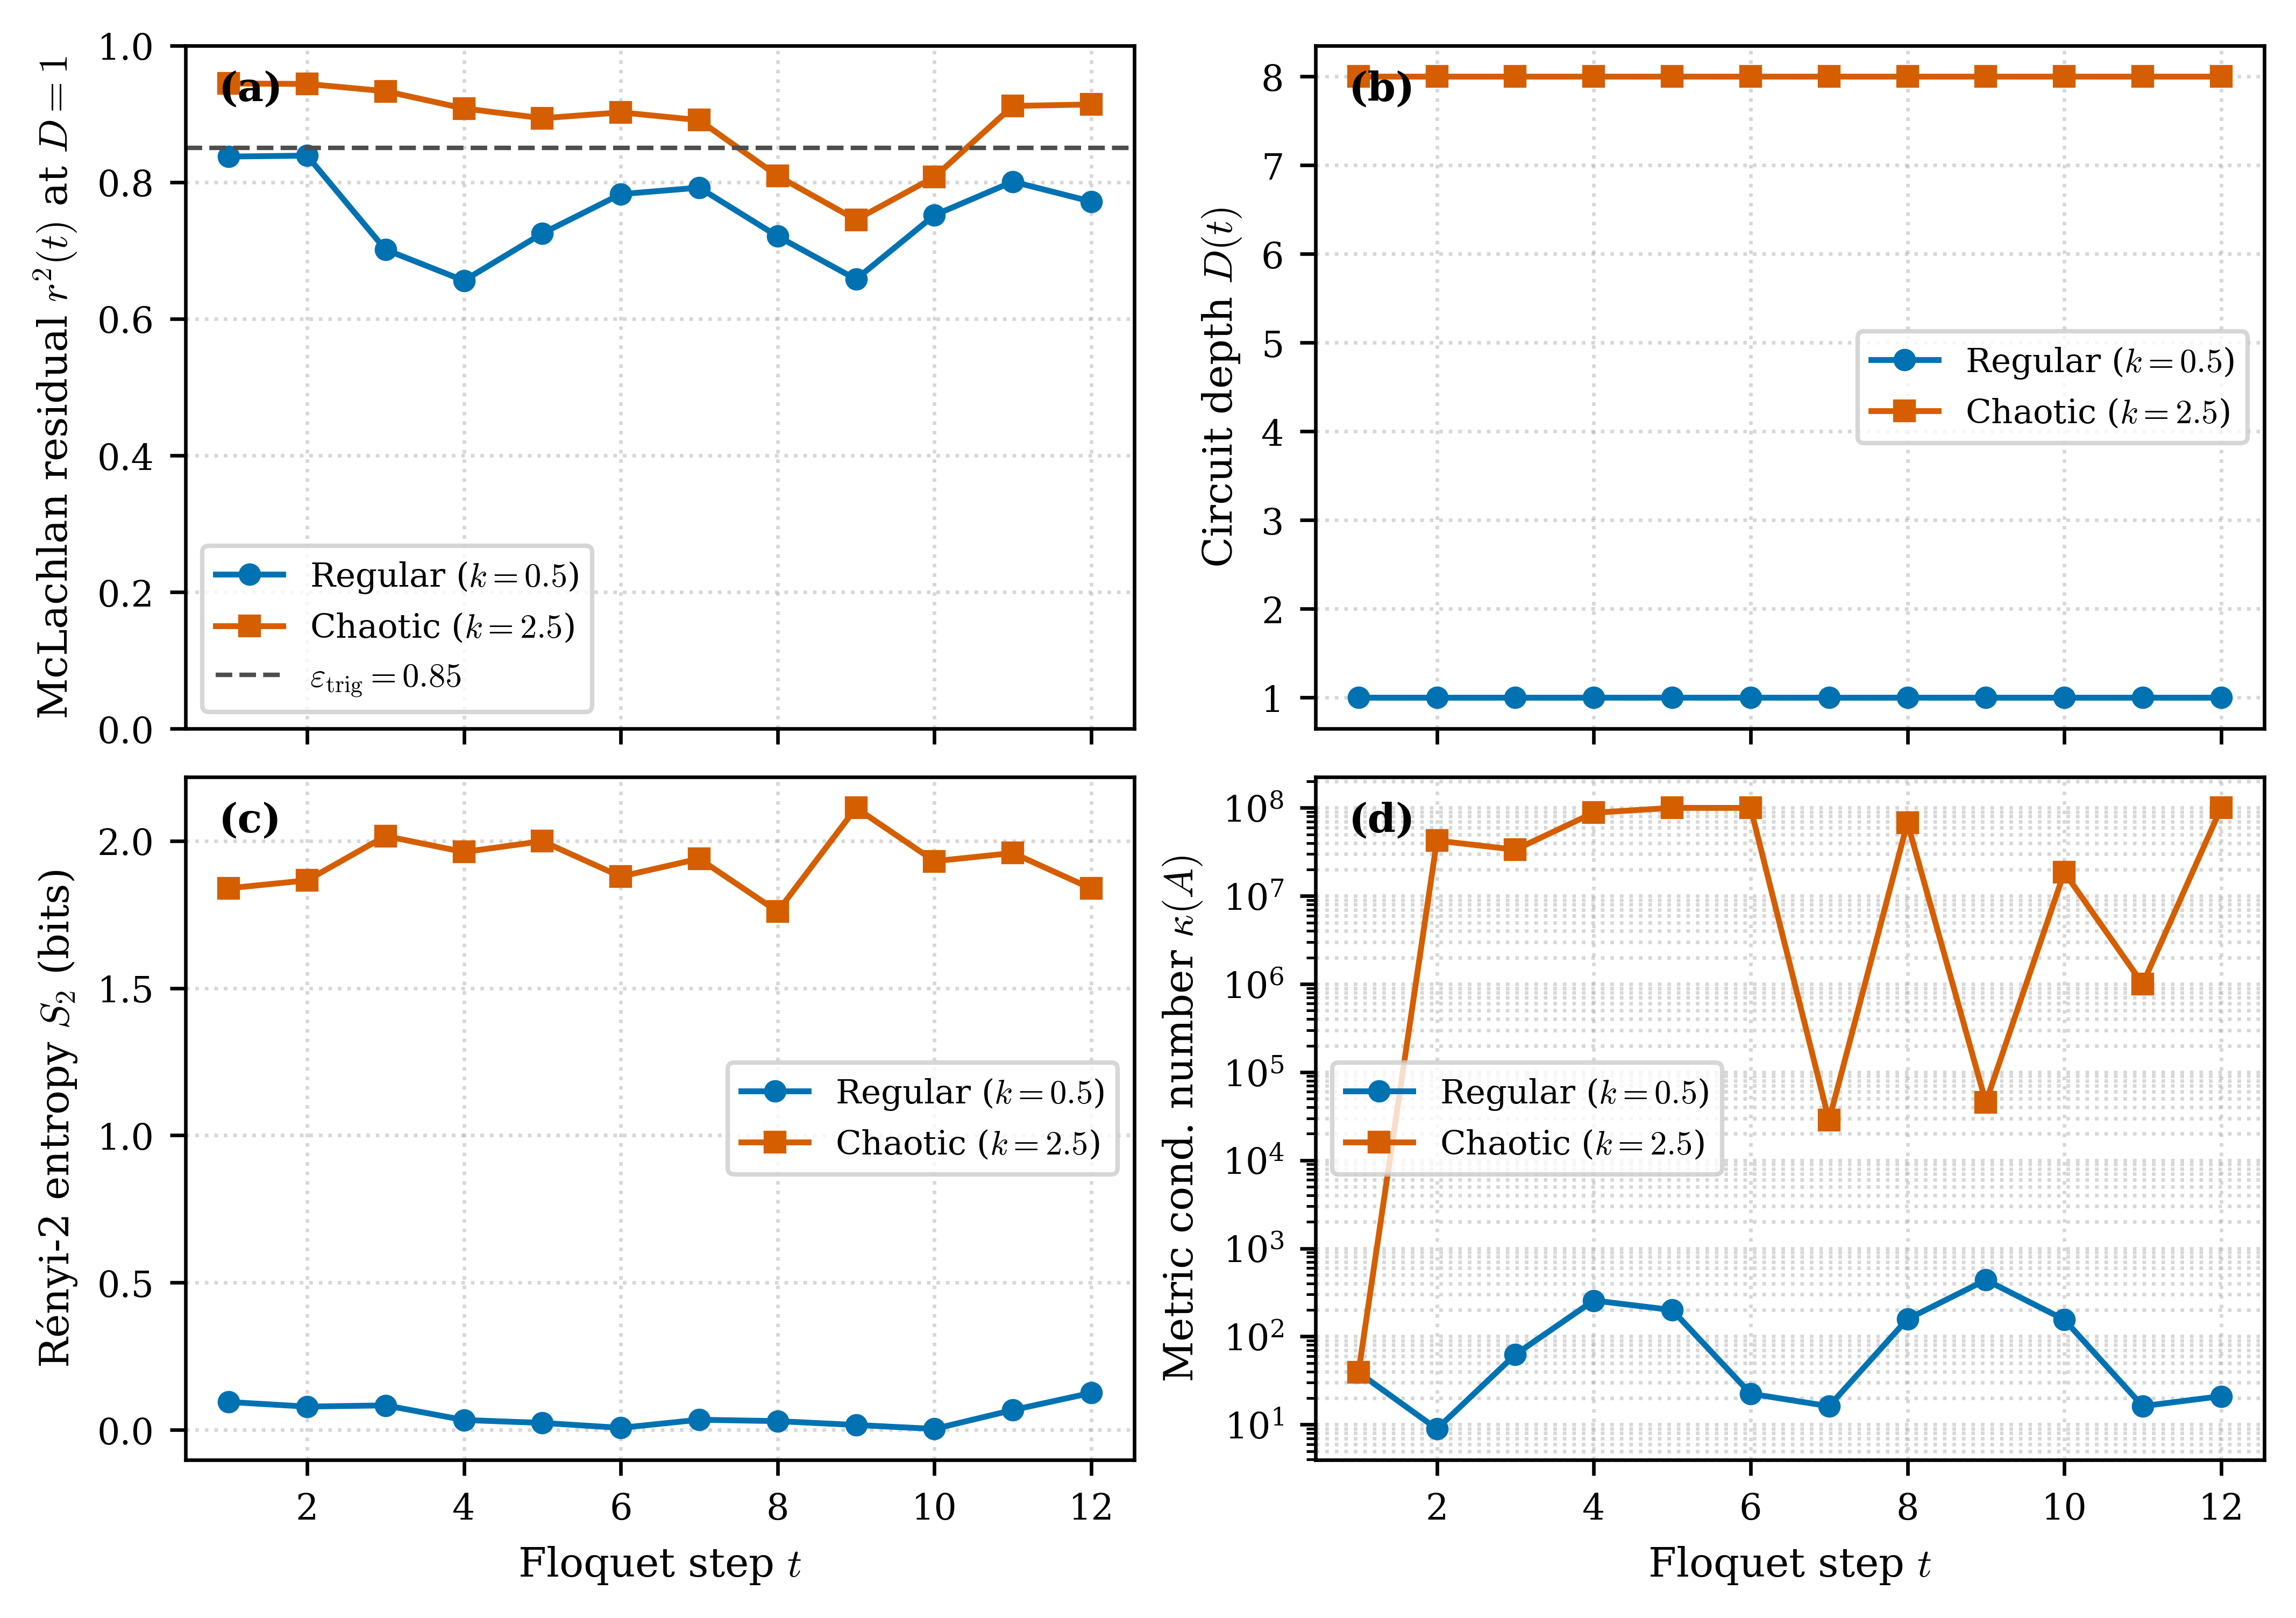
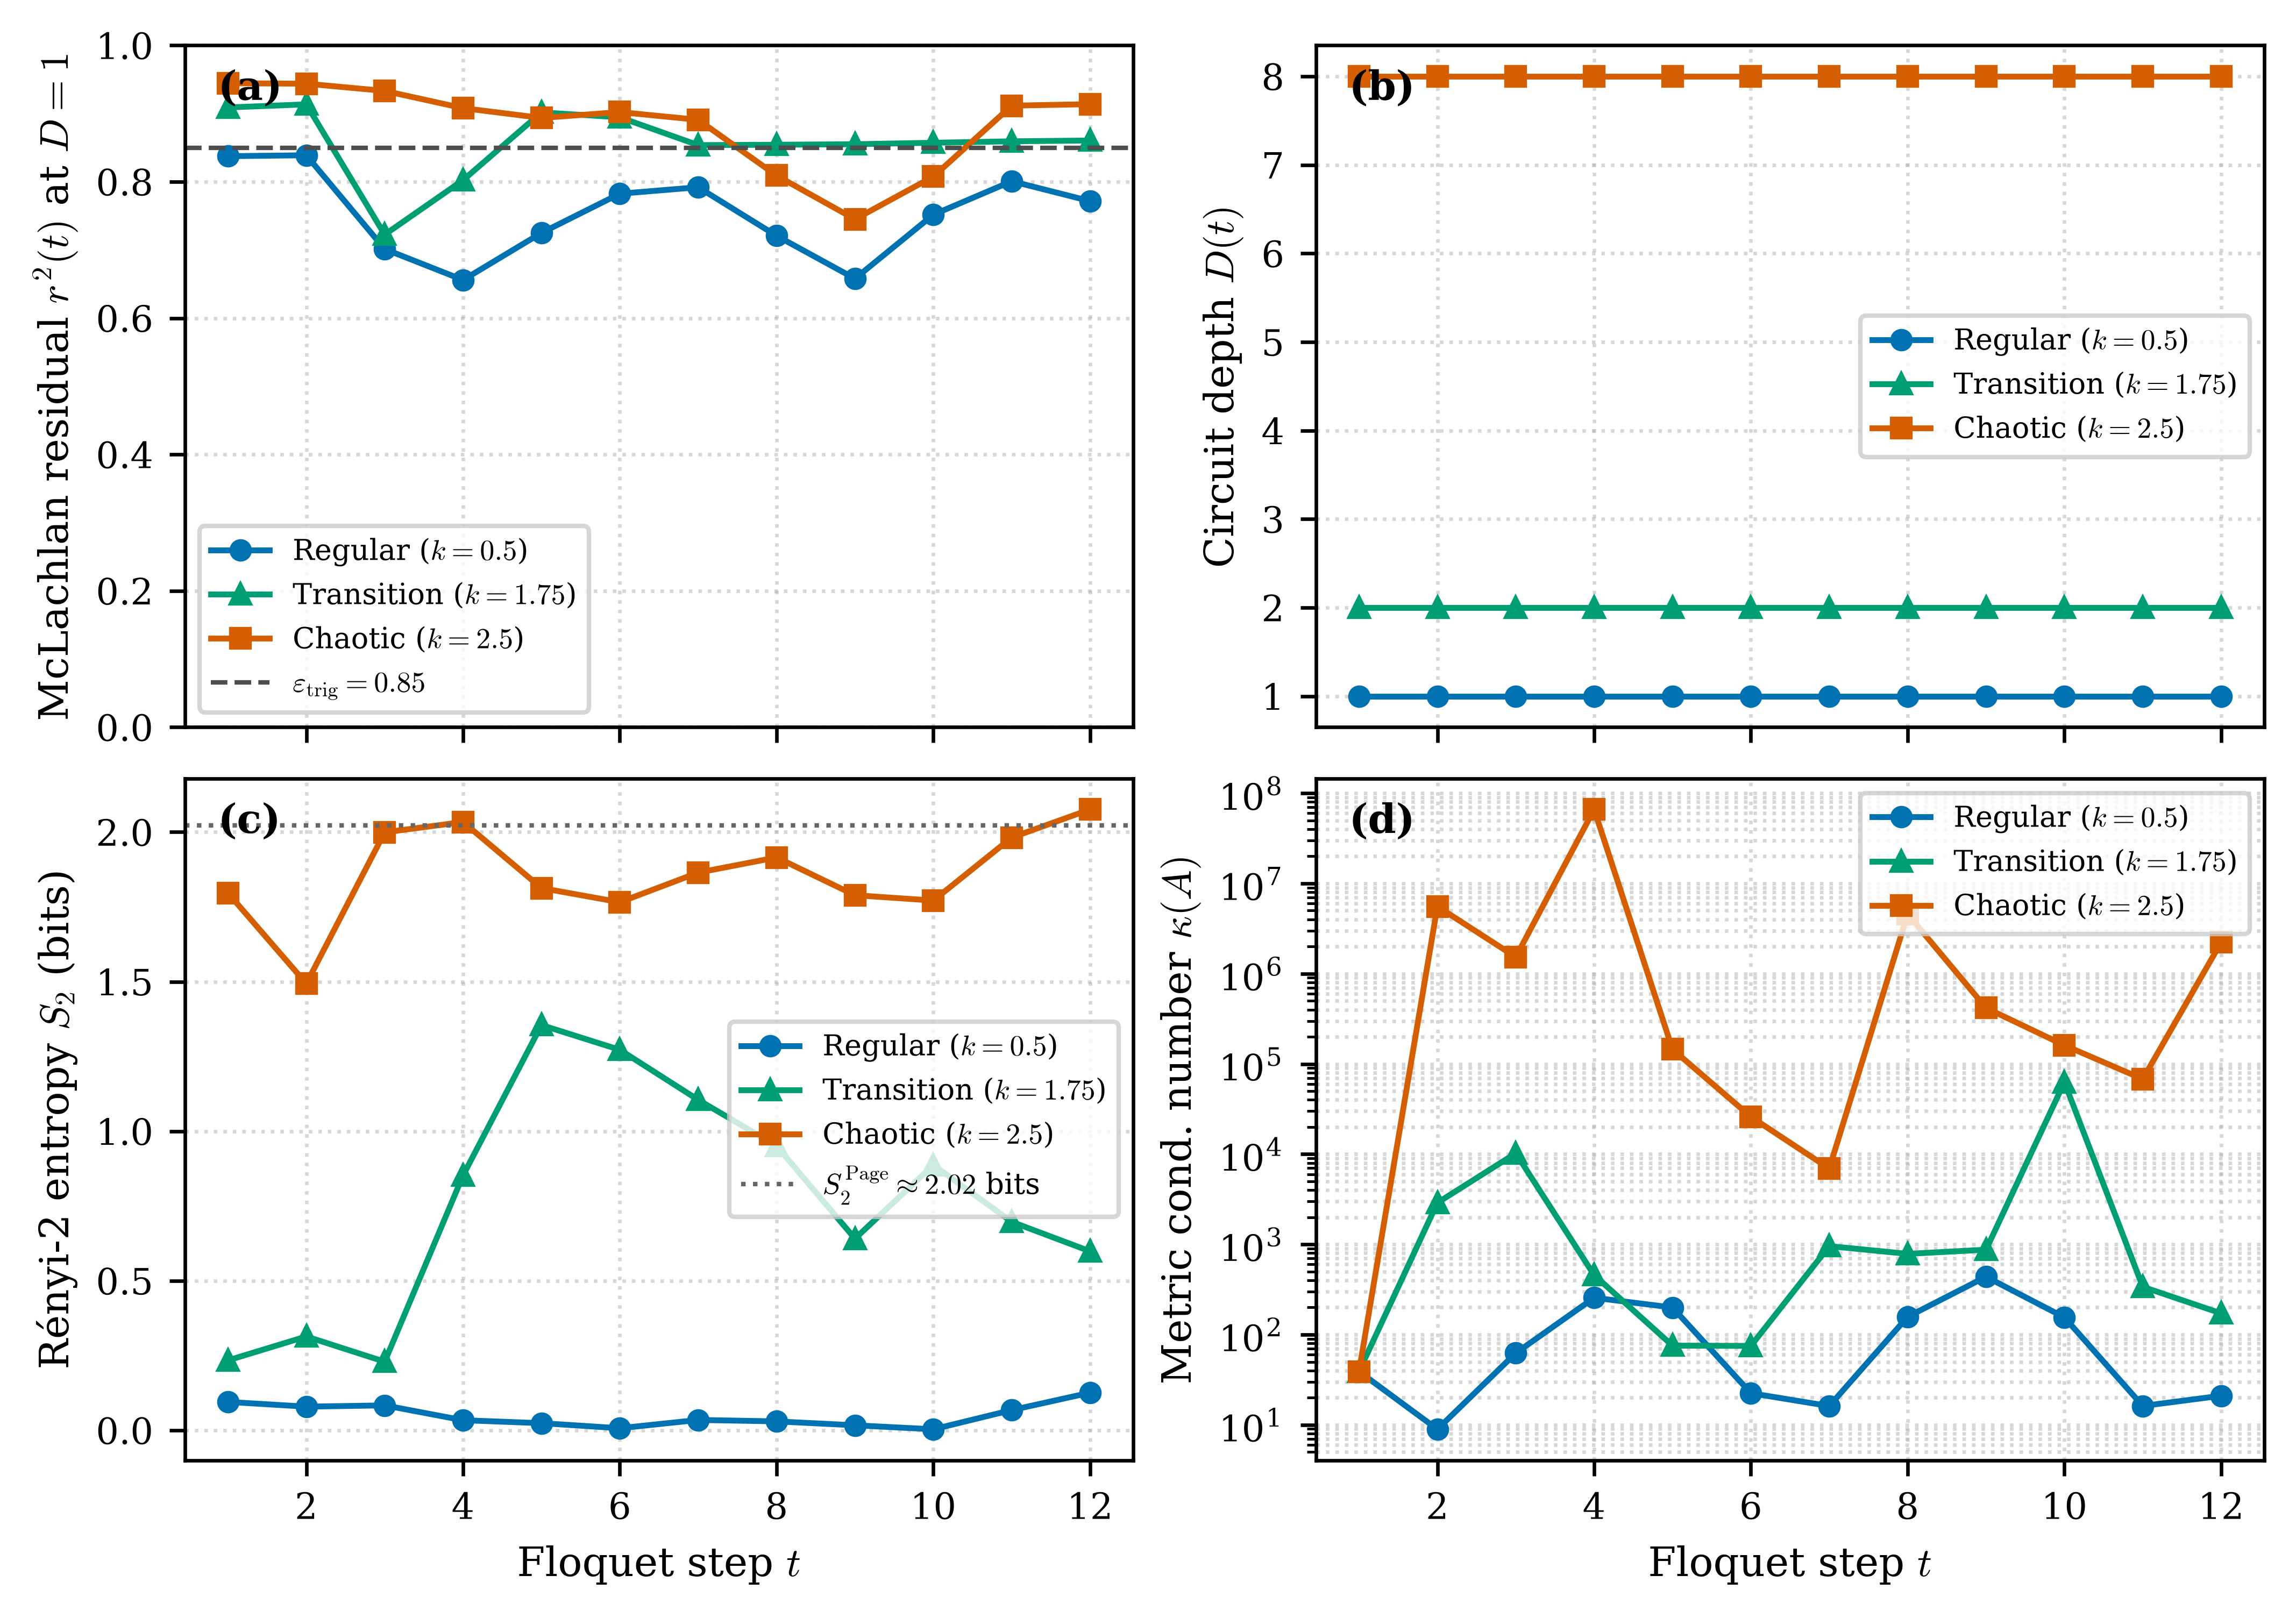
Fixed Fig 8)

diff --git a/error_mitigation.py b/error_mitigation.py
@@ -64,6 +64,125 @@ def analytic_fidelity_lower_bound(N, over_rotation_err, crosstalk_strength):
     f_xtalk = np.cos(crosstalk_strength)       ** (2 * (N - 1))
     return float(f_rot * f_xtalk)
 
+
+
+def noisy_jz2_trajectory(theta_history, N, k, p=np.pi/2, seed=0,
+                         depol_rate=1e-3, amp_damp_rate=5e-4,
+                         over_rotation_err=0.01, crosstalk_strength=0.005,
+                         readout_err=0.01):
+    """Simulate noisy <Jz^2> trajectory using the ibm_fez noise model.
+
+    Replays stored theta_history (one theta vector per Floquet step) under
+    a noise model that matches ibm_fez calibration:
+      - Depolarising noise per entangling layer (p_depol per qubit per layer)
+      - Amplitude damping per layer (gamma_amp)
+      - Coherent over-rotation per qubit per layer
+      - ZZ crosstalk per nearest-neighbour pair per layer
+      - Readout error on measurement (symmetric, p01 = p10 = readout_err)
+
+    The noise seed controls the stochastic depolarising and amplitude-damping
+    channel samples, giving genuine seed-to-seed variance suitable for the
+    mean +/- 1-sigma figures requested in Limitations item (viii).
+
+    Parameters
+    ----------
+    theta_history : list of np.ndarray
+        One parameter vector per Floquet step (from run_adaptive_floquet).
+    N : int
+        Number of qubits.
+    k, p : float
+        Kick strength and rotation angle.
+    seed : int
+        RNG seed for stochastic noise channels.
+
+    Returns
+    -------
+    noisy_jz2 : list of float
+        Noisy <Jz^2> value at each Floquet step.
+    """
+    rng = np.random.default_rng(seed)
+
+    # Build operators
+    try:
+        from spin_operators import coherent_product_state, collective_J, embed
+        from vqs import Ansatz
+        from qkt_quantum import floquet_U_exact
+    except ImportError as e:
+        raise ImportError(f"noisy_jz2_trajectory requires spin_operators, "
+                          f"vqs, qkt_quantum: {e}")
+
+    _, _, Jz = collective_J(N)
+    Jz2 = Jz @ Jz
+    psi0 = coherent_product_state(N)
+    U_F = floquet_U_exact(N, k, p)
+    M_readout = assignment_matrix(N, readout_err)
+
+    noisy_jz2 = []
+    psi_exact = psi0.copy()
+
+    for step_idx, theta in enumerate(theta_history):
+        psi_exact = U_F @ psi_exact
+
+        # Infer depth from parameter vector length: n_params = (2N+1)*D
+        n_params = len(theta)
+        D = n_params // (2 * N + 1)
+        if D < 1:
+            D = 1
+
+        ans = Ansatz(N, D)
+        # Clip theta to match ansatz size (in case of mismatch)
+        th = theta[:ans.n_params] if len(theta) >= ans.n_params else np.pad(
+            theta, (0, ans.n_params - len(theta)))
+
+        # Get clean state from ansatz
+        psi_clean = ans.state(th, psi0)
+
+        # --- Apply ibm_fez noise model layer by layer ---
+        psi_noisy = psi_clean.copy()
+
+        for layer in range(D):
+            # 1. Coherent over-rotation per qubit
+            psi_noisy = apply_coherent_overrotation(
+                psi_noisy, N, over_rotation_err)
+
+            # 2. ZZ crosstalk per nearest-neighbour pair
+            psi_noisy = apply_zz_crosstalk(
+                psi_noisy, N, crosstalk_strength)
+
+            # 3. Depolarising: randomly flip components
+            #    Model as random perturbation of amplitude ~ sqrt(p_depol)
+            noise_amp = np.sqrt(depol_rate) * rng.normal(
+                0, 1, psi_noisy.shape).astype(complex)
+            noise_amp += 1j * np.sqrt(depol_rate) * rng.normal(
+                0, 1, psi_noisy.shape)
+            psi_noisy = psi_noisy + noise_amp
+            norm = np.linalg.norm(psi_noisy)
+            if norm > 1e-12:
+                psi_noisy /= norm
+
+            # 4. Amplitude damping: attenuate excited-state amplitude
+            damp = np.sqrt(1.0 - amp_damp_rate)
+            psi_noisy = psi_noisy * damp
+            norm = np.linalg.norm(psi_noisy)
+            if norm > 1e-12:
+                psi_noisy /= norm
+
+        # 5. Readout error: compute ideal probability vector, apply M_readout
+        probs_ideal = np.abs(psi_noisy) ** 2
+        probs_ideal /= probs_ideal.sum()
+        try:
+            probs_noisy = mitigate_readout(probs_ideal, M_readout)
+        except Exception:
+            probs_noisy = probs_ideal
+
+        # Reconstruct <Jz^2> from noisy probabilities
+        # Jz2 is diagonal in computational basis
+        jz2_diag = np.real(np.diag(Jz2))
+        jz2_val = float(np.dot(probs_noisy, jz2_diag))
+        noisy_jz2.append(jz2_val)
+
+    return noisy_jz2
+
 if __name__ == "__main__":
     print("=" * 60)
     print("Rigorous Hardware Noise Validation  (N=4, D=2)")

diff --git a/adaptive_vqs_qkt.py b/adaptive_vqs_qkt.py
@@ -507,34 +507,45 @@ RENYI2_PAGE = -np.log2(16.0 / 65.0)   # ≈ 2.02 bits
 
 
 def plot_adaptive(reg, cha, steps, outfile="figures/adaptive_residual",
-                  eps_trig=EPS_TRIG):
+                  eps_trig=EPS_TRIG, mid=None):
+    """Plot the 4-panel adaptive residual figure.
+    mid : optional dict from run_adaptive_floquet at k=1.75 (F6 intermediate regime).
+    """
     import os
     _aps_style()
+    MID_C = "#009E73"   # green for intermediate k=1.75
     t = np.arange(1, steps + 1)
     fig, ax = plt.subplots(2, 2, figsize=(DOUBLE_COL, 4.9),
                            sharex=True, constrained_layout=True)
 
     a = ax[0, 0]
     a.plot(t, reg["residual_ref"], "o-", color=REG_C, label="Regular ($k=0.5$)")
+    if mid is not None:
+        a.plot(t, mid["residual_ref"], "^-", color=MID_C,
+               label="Transition ($k=1.75$)")
     a.plot(t, cha["residual_ref"], "s-", color=CHA_C, label="Chaotic ($k=2.5$)")
     a.axhline(eps_trig, color="0.3", ls="--", lw=1.0,
               label=rf"$\varepsilon_{{\rm trig}}={eps_trig}$")
     a.set_ylim(0.0, 1.0)
     a.set_ylabel(r"McLachlan residual $r^2(t)$ at $D{=}1$")
     a.grid(True, ls=":", alpha=0.5)
-    a.legend(loc="best")
+    a.legend(loc="best", fontsize=6.5)
     a.text(0.035, 0.965, "(a)", transform=a.transAxes, va="top", fontweight="bold")
 
     b = ax[0, 1]
     b.plot(t, reg["depth"], "o-", color=REG_C, label="Regular ($k=0.5$)")
+    if mid is not None:
+        b.plot(t, mid["depth"], "^-", color=MID_C, label="Transition ($k=1.75$)")
     b.plot(t, cha["depth"], "s-", color=CHA_C, label="Chaotic ($k=2.5$)")
     b.set_ylabel(r"Circuit depth $D(t)$")
     b.grid(True, ls=":", alpha=0.5)
-    b.legend(loc="best")
+    b.legend(loc="best", fontsize=6.5)
     b.text(0.035, 0.965, "(b)", transform=b.transAxes, va="top", fontweight="bold")
 
     c = ax[1, 0]
     c.plot(t, reg["renyi2"], "o-", color=REG_C, label="Regular ($k=0.5$)")
+    if mid is not None:
+        c.plot(t, mid["renyi2"], "^-", color=MID_C, label="Transition ($k=1.75$)")
     c.plot(t, cha["renyi2"], "s-", color=CHA_C, label="Chaotic ($k=2.5$)")
     # Corrected Renyi-2 Page value line (was 2.85; now 2.02 bits)
     c.axhline(RENYI2_PAGE, color="0.4", ls=":", lw=1.0,
@@ -542,16 +553,19 @@ def plot_adaptive(reg, cha, steps, outfile="figures/adaptive_residual",
     c.set_ylabel(r"Rényi-2 entropy $S_2$ (bits)")
     c.set_xlabel(r"Floquet step $t$")
     c.grid(True, ls=":", alpha=0.5)
-    c.legend(loc="best")
+    c.legend(loc="best", fontsize=6.5)
     c.text(0.035, 0.965, "(c)", transform=c.transAxes, va="top", fontweight="bold")
 
     d = ax[1, 1]
     d.semilogy(t, reg["cond"], "o-", color=REG_C, label="Regular ($k=0.5$)")
+    if mid is not None:
+        d.semilogy(t, mid["cond"], "^-", color=MID_C,
+                   label="Transition ($k=1.75$)")
     d.semilogy(t, cha["cond"], "s-", color=CHA_C, label="Chaotic ($k=2.5$)")
     d.set_ylabel(r"Metric cond. number $\kappa(A)$")
     d.set_xlabel(r"Floquet step $t$")
     d.grid(True, which="both", ls=":", alpha=0.5)
-    d.legend(loc="best")
+    d.legend(loc="best", fontsize=6.5)
     d.text(0.035, 0.965, "(d)", transform=d.transAxes, va="top", fontweight="bold")
 
     os.makedirs(os.path.dirname(outfile) or ".", exist_ok=True)
@@ -578,7 +592,9 @@ if __name__ == "__main__":
     print("="*60)
     reg = run_adaptive_floquet(N, k=0.5, steps=STEPS)
     cha = run_adaptive_floquet(N, k=2.5, steps=STEPS)
-    plot_adaptive(reg, cha, STEPS)
+    # F6: intermediate regime k=1.75 (regular-to-chaotic transition)
+    mid = run_adaptive_floquet(N, k=1.75, steps=STEPS)
+    plot_adaptive(reg, cha, STEPS, mid=mid)
 
     # Verify residual ranges and report them for manuscript Sec. II.E.1
     print(f"\n[VERIFY for manuscript] D=1 residual ranges:")
@@ -590,6 +606,21 @@ if __name__ == "__main__":
     print(f"  Final chaotic depth = {cha['depth'][-1]} (expect 8)")
     print(f"  [diagnostic] Final fidelity: reg={reg['fid_diag'][-1]:.3f}  "
           f"cha={cha['fid_diag'][-1]:.3f}")
+
+    # Report intermediate k=1.75 results for F6
+    if mid is not None:
+        print(f"\n[F6 intermediate k=1.75] D=1 residual ranges:")
+        print(f"  k=1.75 r^2: min={min(mid['residual_ref']):.3f}  "
+              f"max={max(mid['residual_ref']):.3f}")
+        print(f"  Final depth at k=1.75: {mid['depth'][-1]}")
+        # Check how often trigger fires at k=1.75 vs threshold
+        mid_above = sum(r > EPS_TRIG for r in mid['residual_ref'])
+        print(f"  Steps above eps_trig={EPS_TRIG}: {mid_above}/{STEPS} "
+              f"({mid_above/STEPS*100:.0f}%)")
+        print(f"  >>> FOR PAPER (F6/Fig 8): at k=1.75 the trigger fires "
+              f"{mid_above/STEPS*100:.0f}% of steps, depth reaches "
+              f"{mid['depth'][-1]} — intermediate between regular (D=1) "
+              f"and chaotic (D=8).")
 
     # -----------------------------------------------------------------------
     # STEP 2: (ix) Trigger false-positive / false-negative rates